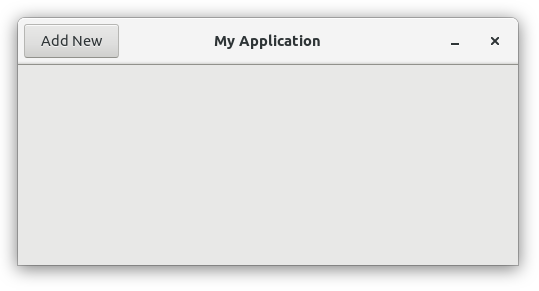
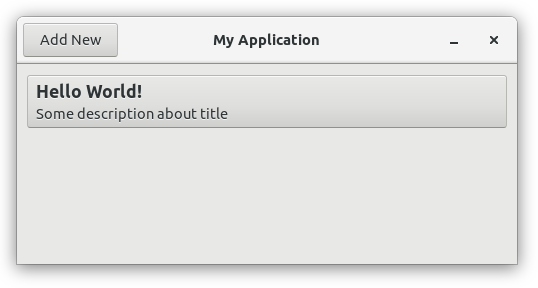
Implement required functions (box and attach) and update README.

diff --git a/gtwili.c b/gtwili.c
@@ -232,6 +232,28 @@ get_switch_value(GtkWidget *switchbox)
   return 0;
 }
 
+/* Box container */
+GtkWidget *
+create_box(bool is_vertical, int rows)
+{
+  int orientation;
+  if (is_vertical)
+    orientation = GTK_ORIENTATION_VERTICAL;
+  else
+    orientation = GTK_ORIENTATION_HORIZONTAL;
+  GtkWidget *box = gtk_box_new(GTK_ORIENTATION_VERTICAL, rows);
+  gtk_box_set_homogeneous(GTK_BOX(box), TRUE);
+  return box;
+}
+
+/* Attach widget to a container */
+void
+attach(GtkWidget *widget, GtkWidget *container)
+{
+  gtk_container_add(GTK_CONTAINER(container), widget);
+  gtk_widget_show_all(container);
+}
+
 /* Initialize to draw widgets */
 void
 gtwili_init(int argc, char *argv[])

diff --git a/gtwili.h b/gtwili.h
@@ -32,10 +32,12 @@ GtkWidget* create_input(char *placeholder, char *value, bool is_multiline, int m
 GtkWidget* create_switchbox(bool is_active);
 GtkWidget* create_label(char *text, bool is_title);
 GtkWidget* create_alert(char *title, char *description, char *name);
+GtkWidget *create_box(bool is_vertical, int rows);
 
 char* get_entry_text(GtkWidget *textbox, bool is_multiline);
 int get_switch_value(GtkWidget *switchbox);
 
+void attach(GtkWidget *widget, GtkWidget *container);
 void gtwili_init(int argc, char *argv[]);
 void gtwili_render();
 

diff --git a/README.md b/README.md
@@ -13,9 +13,20 @@ To use this library, you need to install `gtk-3-dev` package in your GNU/Linux d
 int main(int argc, char *argv[]) {
   gtwili_init(argc, argv);
 
-  gtwili add_new_btn = create_button("Add New", "button_success");
-  gtwili header = create_headerbar("My Application", 1, add_new_btn);
+  // simple button
+  gtwili top_btn = create_button("Add New", "button_success");
+
+  // big button
+  gtwili big_btn = create_bigbutton("Hello World!", "Some description about title", "bigbutton");
+  
+  // window
+  gtwili header = create_headerbar("My Application", 1, top_btn);
   gtwili window = create_window("My Window", 500, 200, header, TRUE, "", TRUE);
+
+  // create box and attach widgets
+  gtwili box = create_box(true, 1);
+  attach(big_btn, box);
+  attach(box, window);
 
   gtwili_render();
 }
